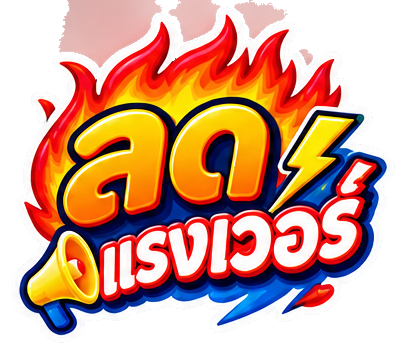
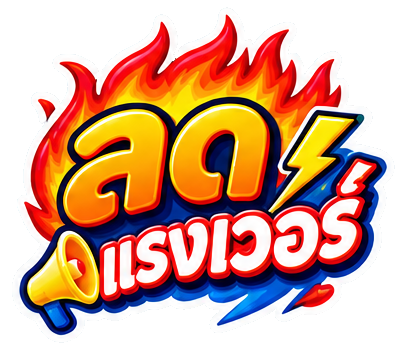
auto: claude edit rattana-price-tag.html

Changed region(s): [[0.1474, 0.0, 0.7076, 0.1859], [0.7371, 0.1239, 0.7666, 0.1859]]

diff --git a/rattana-price-tag.html b/rattana-price-tag.html
@@ -6273,7 +6273,7 @@ const RT_STICKERS = [
   { id:5,  label:'โปรแรง! ช็อกราคา' }, { id:6,  label:'เฉพาะสมาชิก' }, { id:7,  label:'ลดแรงเวอร์' }, { id:8,  label:'ของดี มีคุณภาพ' },
   { id:9,  label:'ส่งไว ถึงมือคุณ' }, { id:10, label:'มีสิทธิพิเศษ' }, { id:11, label:'ช้อปเลย! (มาสคอต)' }, { id:12, label:'ติดตามโปรก่อนใคร' },
 ];
-const stickerSrc = id => `stickers/sticker-${String(id).padStart(2,'0')}.png?v=3`;   // ?v bumps when the PNGs are re-cut (cache-bust)
+const stickerSrc = id => `stickers/sticker-${String(id).padStart(2,'0')}.png?v=4`;   // ?v bumps when the PNGs are re-cut (cache-bust)
 let stickerState = {};   // modeKey → [ {k, sid, page, x, y, w} ]  (x,y,w = fractions of the page)
 let stickerSel = null;
 let stickerUid = 1;
